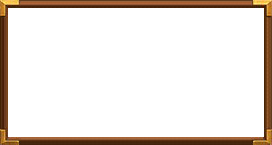
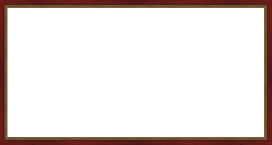
added deck, class specification.

Changed region(s): [[0.0, 0.0, 1.0, 1.0]]

diff --git a/assets/css/main.css b/assets/css/main.css
@@ -124,9 +124,15 @@ html, body {
     left: -8px;
     border: 8px solid #dec79b;
     border-width: 17px 20px;
-    border-image: url("../img/frame2.png") 17 20 stretch;
     z-index: -1;
 }
+.frame1:before {
+    border-image: url("../img/frame1.png") 17 20 stretch;
+}
+.frame2:before {
+    border-image: url("../img/frame2.png") 17 20 stretch;
+}
+
 select {
     background: #422C1D;
     color: #DABC86;
@@ -137,17 +143,53 @@ select {
 }
 
 .start-content {
-    margin-top: 30px;
-    margin-left: 30px;
+    margin-top: 2%;
+    margin-left: 4%;
 }
 .place-card {
-    height: 400px;
-    cursor: default;
-    background: url('../img/cards/cardback.png') center bottom no-repeat scroll;
+    height: 350px;
 
 }
 .place-card img {
-    height: 400px;
+    height: 350px;
+}
+.cardclick{
+    -webkit-transition: all 0.2s ease;
+    -moz-transition: all 0.2s ease;
+    -ms-transition: all 0.2s ease;
+    -o-transition: all 0.2s ease;
+    transition: all 0.2s ease;
+    
+}
+.cardclick:hover {
+   -webkit-backface-visibility: hidden;
+    -webkit-transform: translateZ(0) scale(1.15, 1.15);
+    transform: translateZ(0) scale(1.15, 1.15);
+    -webkit-transition: all 0.2s ease;
+    -moz-transition: all 0.2s ease;
+    -ms-transition: all 0.2s ease;
+    -o-transition: all 0.2s ease;
+    transition: all 0.2s ease;
+ 
+}
+.stats {
+    padding-top: 3%;
+    padding-bottom:3%;
+}
+.class img {
+    border-radius: 50%;
+    border: 5px solid #6F4725;
+    width: 150px;
+     margin: 0 auto;
+    display: block;
+    
+}
+.classname {
+    font-family: 'Roboto';
+    font-weight: 300;
+    color: #7E7046;
+    margin-top: 5px;
+    text-align: center;
 }
 /*.page-wrap {
     min-height: 100%;

diff --git a/assets/js/selection.js b/assets/js/selection.js
@@ -18,13 +18,24 @@ card {
 */
 
 
-angular.module('hsbuilder', [])
-  .controller('selectionController', ['$scope', function($scope) {
+var hsbuilder = angular.module('hsbuilder', []);
+
+ hsbuilder.controller('selectionController', function($scope) {
     //just here to be stubs.
+    $scope.selectedCards=[];
     $scope.cards = [
       {name:'Ragnaros the Firelord', class:'mage', type:'minion', manaCost: 8, rarity:'legendary', health:8, attack:8, value:8 },
       {name:'Bloodmage Thalnos', class:null, type:'minion', manaCost: 1, rarity:'legendary', health:1, attack:1, keyEffectList:['deathRattle', 'spellDamage'], value:7 },
       {name:'Dark Iron Dwarf', class:null, type:'minion', manaCost: 4, rarity:'common', health:4, attack:4, keyEffectList:['batlecry'], value:6 },
     ];
-    $scope.myCard1 = 'cardback';
-  }]);
+    $scope.count = 0;
+    $scope.addCard = function (card) {
+        if($scope.count<30){
+                $scope.selectedCards.push(angular.copy(card));
+                $scope.count += 1;
+        }
+        //console.log(card);
+        //console.log(selectedCards);
+        //$(.'cardSelection').empty().load(window.location.href + '#cardSelection');
+    };
+  });

diff --git a/application/views/index.php b/application/views/index.php
@@ -6,7 +6,7 @@
      <div class="row top">
 
           <div class="col-sm-4 ">
-            <div class="ih-item circle effect1 centered"><a href="/home/selection">
+            <div class="ih-item circle effect1 centered"><a href="/home/selection?class=hunter">
                 <div class="spinner"></div>
                 <div class="img"><img src="<?=$base_url.$img_path?>hunter.jpg" alt="img"></div>
                 <div class="info">
@@ -18,7 +18,7 @@
           </div>
 
           <div class="col-sm-4 ">
-            <div class="ih-item circle effect1 centered"><a href="/home/selection">
+            <div class="ih-item circle effect1 centered"><a href="/home/selection?class=mage">
                 <div class="spinner"></div>
                 <div class="img"><img src="<?=$base_url.$img_path?>mage.jpg" alt="img"></div>
                 <div class="info">
@@ -30,7 +30,7 @@
           </div>
 
           <div class="col-sm-4 ">
-            <div class="ih-item circle effect1 centered"><a href="/home/selection">
+            <div class="ih-item circle effect1 centered"><a href="/home/selection?class=paladin">
                 <div class="spinner"></div>
                 <div class="img"><img src="<?=$base_url.$img_path?>paladin.jpg" alt="img"></div>
                 <div class="info">
@@ -44,7 +44,7 @@
          <div class="row top">
 
           <div class="col-sm-4 ">
-            <div class="ih-item circle effect1 centered"><a href="/home/selection">
+            <div class="ih-item circle effect1 centered"><a href="/home/selection?class=druid">
                 <div class="spinner"></div>
                 <div class="img"><img src="<?=$base_url.$img_path?>druid.jpg" alt="img"></div>
                 <div class="info">
@@ -56,7 +56,7 @@
           </div>
 
           <div class="col-sm-4 ">
-            <div class="ih-item circle effect1 centered"><a href="/home/selection">
+            <div class="ih-item circle effect1 centered"><a href="/home/selection?class=warrior">
                 <div class="spinner"></div>
                 <div class="img"><img src="<?=$base_url.$img_path?>warrior.jpg" alt="img"></div>
                 <div class="info">
@@ -68,7 +68,7 @@
           </div>
 
           <div class="col-sm-4 ">
-            <div class="ih-item circle effect1 centered"><a href="/home/selection">
+            <div class="ih-item circle effect1 centered"><a href="/home/selection?class=shaman">
                 <div class="spinner"></div>
                 <div class="img"><img src="<?=$base_url.$img_path?>shaman.jpg" alt="img"></div>
                 <div class="info">
@@ -83,7 +83,7 @@
          <div class="row top">
 
           <div class="col-sm-4">
-            <div class="ih-item circle effect1 centered "><a href="/home/selection">
+            <div class="ih-item circle effect1 centered "><a href="/home/selection?class=rogue">
                 <div class="spinner"></div>
                 <div class="img"><img src="<?=$base_url.$img_path?>rogue.jpg" alt="img"></div>
                 <div class="info">
@@ -95,9 +95,9 @@
           </div>
 
           <div class="col-sm-4">
-            <div class="ih-item circle effect1 centered"><a href="/home/selection">
+            <div class="ih-item circle effect1 centered"><a href="/home/selection?class=warlock">
                 <div class="spinner"></div>
-                <div class="img"><img src="<?=$base_url.$img_path?>worlock.jpg" alt="img"></div>
+                <div class="img"><img src="<?=$base_url.$img_path?>warlock.jpg" alt="img"></div>
                 <div class="info">
                   <div class="info-back">
                     <h3><span class="glyphicon glyphicon-fire" aria-hidden="true"></span></h3>
@@ -107,7 +107,7 @@
           </div>
 
           <div class="col-sm-4">
-            <div class="ih-item circle effect1 centered"><a href="/home/selection">
+            <div class="ih-item circle effect1 centered"><a href="/home/selection?class=priest">
                 <div class="spinner"></div>
                 <div class="img"><img src="<?=$base_url.$img_path?>priest.jpg" alt="img"></div>
                 <div class="info">

diff --git a/application/views/selection.php b/application/views/selection.php
@@ -9,9 +9,11 @@
     keyEffectList:[taunt: ,divineShield:, windFurry:, charge:, deathRattle:, battleCry:, silence:, spellDamage:, enrage, overload:]
     value:
 }-->
+
   <script type="text/javascript" src="<?=$base_url.$js_path?>selection.js"></script>
-    <div class="row start-content" ng-app="hsbuilder">
-<div class="col-md-9 content-frame" ng-controller="selectionController">
+<div class="start-content">
+    <div class="row " ng-app="hsbuilder" ng-controller="selectionController">
+<div class="col-md-9 content-frame frame1" id="cardSelection">
 
     <div class="row">
         <div class="col-md-4 center">    
@@ -19,9 +21,15 @@
               <option value="">-- Choose card --</option>
               
             </select>
-            <div class="place-card">   
-                <a><img src="<?=$base_url.$img_path?>cards/{{myCard1.name}}.png"></a>
-            </div>
+           
+                   <div class="place-card" ng-show="angular.isUndefined(myCard1) || myCard1 == null">  
+                      <img src="<?=$base_url.$img_path?>cards/cardback.png">
+                  </div>
+             <a ng-click="addCard(myCard1)" ng-hide="angular.isUndefined(myCard1) || myCard1 == null">
+                  <div class="place-card cardclick" > 
+                   <img src="<?=$base_url.$img_path?>cards/{{myCard1.name}}.png">
+                </div>
+            </a>
         </div>
         
          <div class="col-md-4 center">    
@@ -29,28 +37,57 @@
               <option value="">-- Choose card --</option>
             </select>
              
-              <div class="place-card">   
-                <a><img src="<?=$base_url.$img_path?>cards/{{myCard2.name}}.png"></a>
-            </div>
+                  <div class="place-card" ng-show="angular.isUndefined(myCard2) || myCard2 == null">  
+                      <img src="<?=$base_url.$img_path?>cards/cardback.png">
+                  </div>
+              <a ng-click="addCard(myCard2)" ng-hide="angular.isUndefined(myCard2) || myCard2 == null">
+                  <div class="place-card cardclick" > 
+                   <img src="<?=$base_url.$img_path?>cards/{{myCard2.name}}.png">
+                </div>
+             </a>
         </div>
         
          <div class="col-md-4 center">    
             <select ng-model="myCard3" ng-options="card.name for card in cards">
               <option value="">-- Choose card --</option>
             </select>
-            <div class="place-card">   
-                <a><img src="<?=$base_url.$img_path?>cards/{{myCard3.name}}.png"></a>
-            </div>
-
+             
+                   <div class="place-card" ng-show="angular.isUndefined(myCard3) || myCard3 == null">  
+                      <img src="<?=$base_url.$img_path?>cards/cardback.png">
+                  </div>
+             <a ng-click="addCard(myCard3)" ng-hide="angular.isUndefined(myCard3) || myCard3 == null">
+                  <div class="place-card cardclick" > 
+                   <img src="<?=$base_url.$img_path?>cards/{{myCard3.name}}.png">
+                </div>
+               </a>
         </div>
     
     </div>
         </div>
-
-    <div class="col-md-3" id="deck">
+    
+    <div class="col-md-3" >
+        <div  id="deck">
+            {{count}}
+            <li ng-repeat="card1 in selectedCards">
+            <p>{{card1.name}}</p>
+        </li>
+            
+        </div>
         
     </div>
-    
-    </div>
+        </div>
+    <div class="stats row">
+        <div class="col-md-2">
+             <div class="class">
+                    <img src="<?=$base_url.$img_path.$class?>.jpg">
+                    <h3 class="classname"><?=$class?></h3>
+               </div>
+        </div>
+       
+        
+        </div>
+   
+  
+</div>
 </body>
 </html>

diff --git a/application/controllers/home.php b/application/controllers/home.php
@@ -54,6 +54,7 @@ class Home extends CI_Controller {
     $data['js_path'] = config_item('js_path');
     $data['css_files'] = array('hover.css', 'main.css');
     $data['img_path'] = config_item('img_path');
+    $data['class'] = $this->input->get('class', TRUE);
         
        $this->load->view('common/head', $data);
 		$this->load->view('common/nav');
